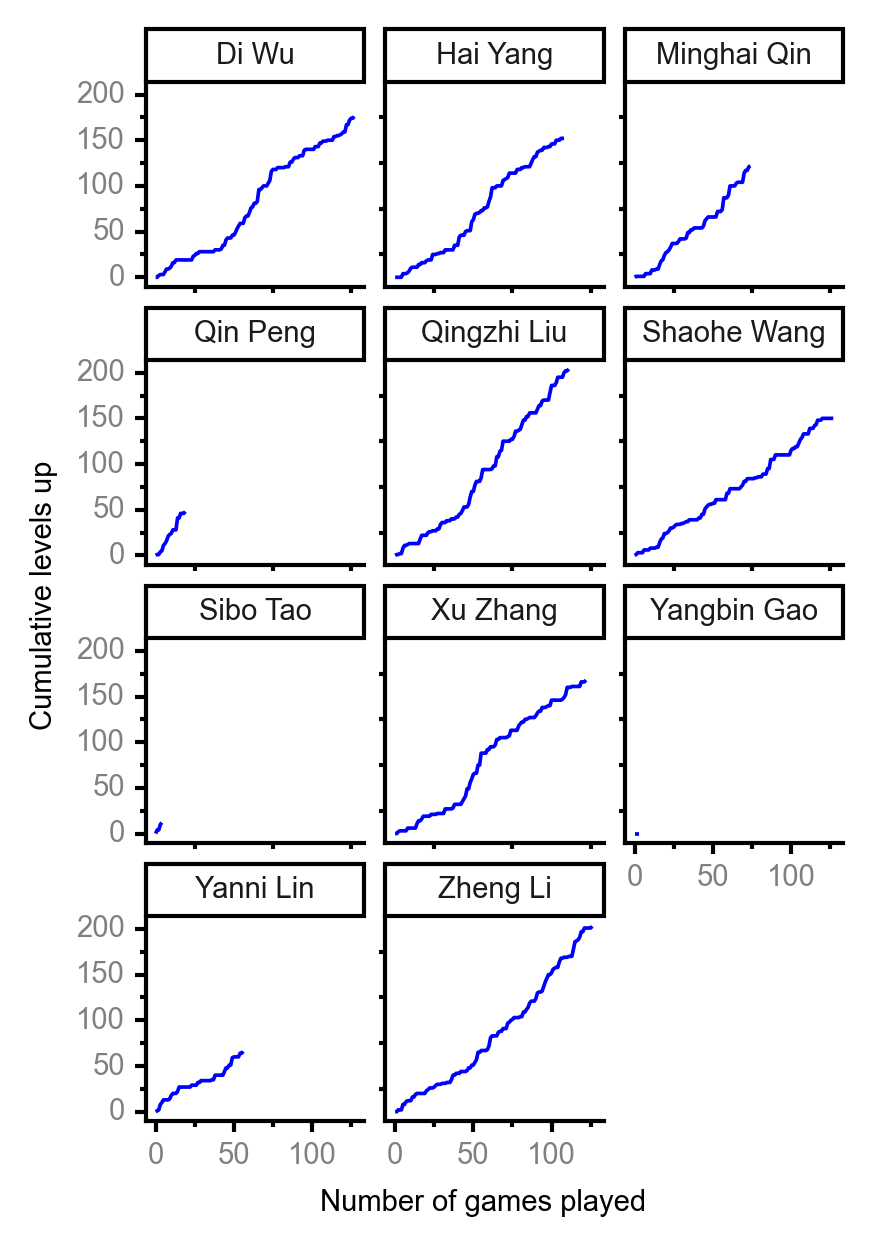
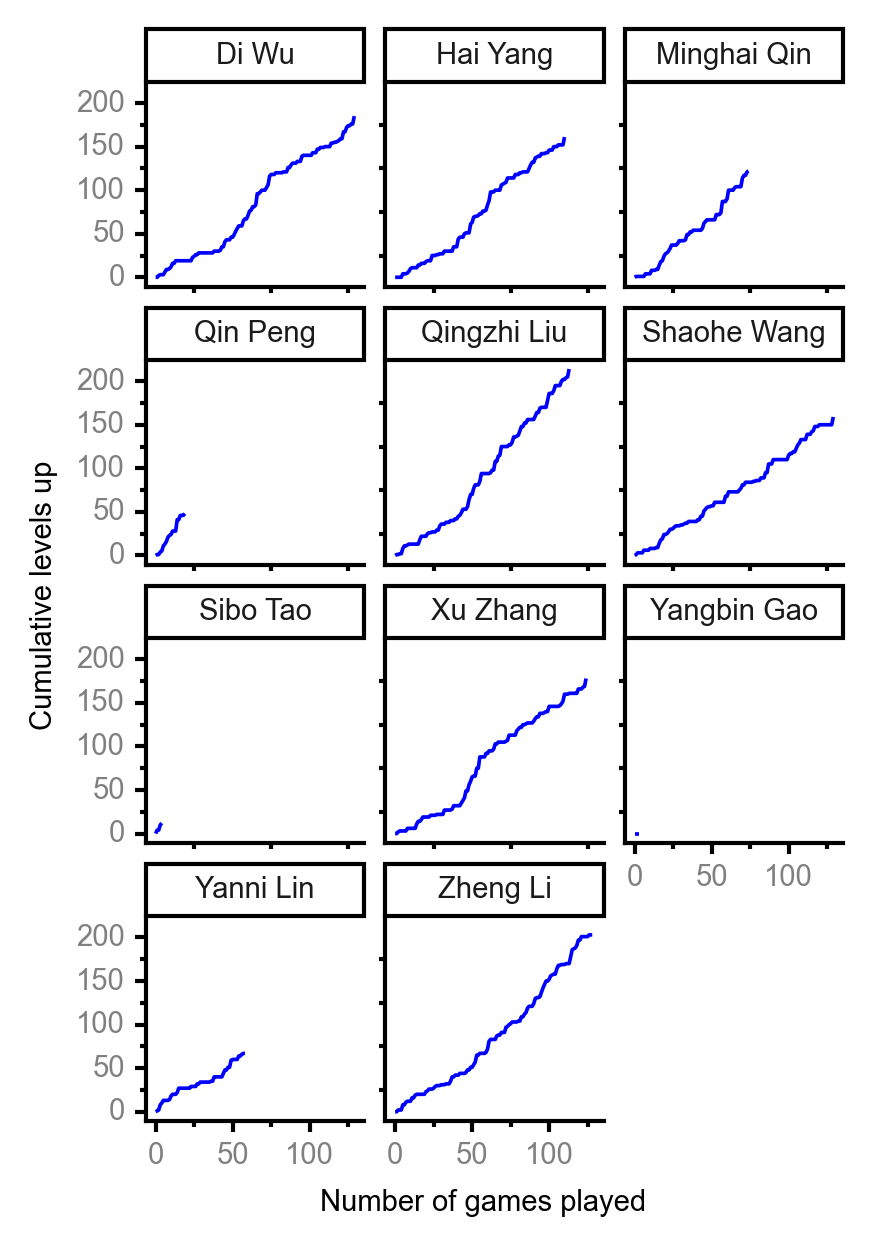
update player stats

diff --git a/player_stats.md b/player_stats.md
@@ -14,14 +14,14 @@ date: 2021-01-23
 
 | <br><br><br>Rank | <br><br><br>Player | <br> Lifetime <br> levels <br> up | <br><br> Winning <br> rate | <br> Average <br> levels <br> up | <br> Total <br> games <br> played | Games <br> played <br> as <br> MVP | Games <br> played <br> as <br> dealer | N_games <br> short <br> staffed <br> as dealer | Winning <br> rate <br> as <br> dealer |
 |:---:|:---:|:---:|:---:|:---:|:---:|:---:|:---:|:---:|:---:|
-| 1 | Qingzhi <br> Liu | 205 | 55.4% | 3.31 | 112 | 5 | 18 | 3 | 55.6% |
-| 2 | Zheng <br> Li | 203 | 59.8% | 2.67 | 127 | 5 | 20 | 0 | 60.0% |
-| 3 | Di <br> Wu | 176 | 46.1% | 2.98 | 128 | 5 | 20 | 0 | 40.0% |
-| 4 | Xu <br> Zhang | 169 | 47.2% | 2.91 | 123 | 5 | 19 | 0 | 47.4% |
-| 5 | Hai <br> Yang | 152 | 46.8% | 2.98 | 109 | 7 | 18 | 1 | 38.9% |
-| 6 | Shaohe <br> Wang | 150 | 46.1% | 2.54 | 128 | 3 | 22 | 2 | 40.9% |
+| 1 | Qingzhi <br> Liu | 214 | 55.3% | 3.40 | 114 | 5 | 19 | 3 | 52.6% |
+| 2 | Zheng <br> Li | 203 | 58.9% | 2.67 | 129 | 5 | 20 | 0 | 60.0% |
+| 3 | Di <br> Wu | 191 | 46.9% | 3.13 | 130 | 5 | 20 | 0 | 40.0% |
+| 4 | Xu <br> Zhang | 184 | 48.0% | 3.07 | 125 | 5 | 19 | 0 | 47.4% |
+| 5 | Shaohe <br> Wang | 165 | 46.9% | 2.70 | 130 | 3 | 22 | 2 | 40.9% |
+| 6 | Hai <br> Yang | 161 | 46.8% | 3.10 | 111 | 7 | 18 | 1 | 38.9% |
 | 7 | Minghai <br> Qin | 123 | 53.3% | 3.08 | 75 | 1 | 11 | 1 | 72.7% |
-| 8 | Yanni <br> Lin | 67 | 43.9% | 2.68 | 57 | 7 | 4 | 1 | 50.0% |
+| 8 | Yanni <br> Lin | 73 | 44.1% | 2.81 | 59 | 8 | 5 | 2 | 40.0% |
 | 9 | Qin <br> Peng | 51 | 75.0% | 3.40 | 20 | 2 | 2 | 0 | 100.0% |
 | 10 | Sibo <br> Tao | 14 | 80.0% | 3.50 | 5 | 0 | 0 | 0 | 0.0% |
 | 11 | Yangbin <br> Gao | 0 | 0.0% | 0.00 | 4 | 0 | 0 | 0 | 0.0% |
